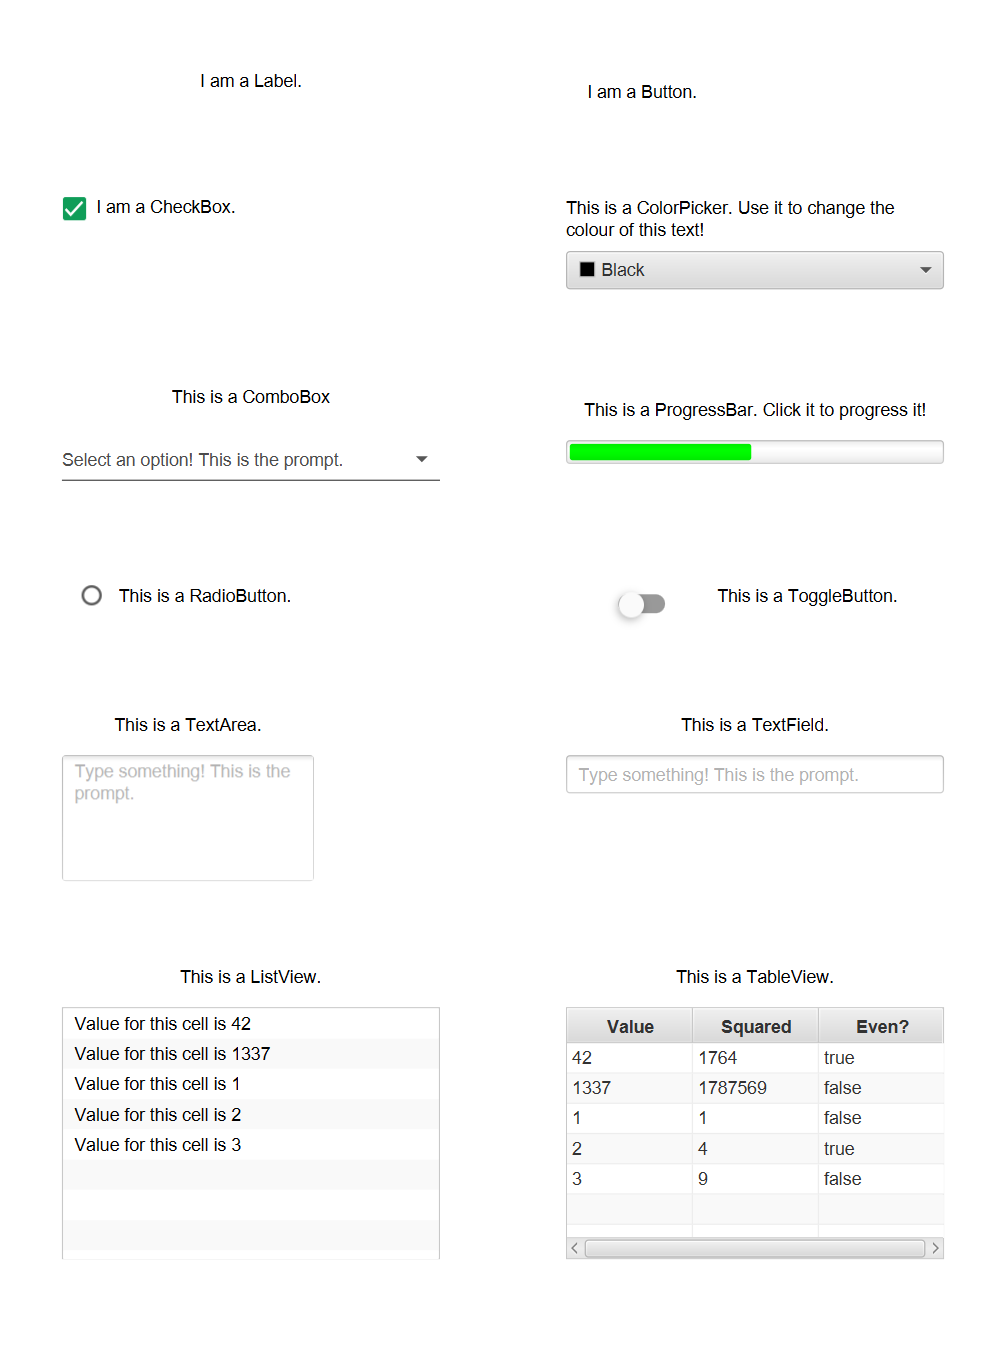
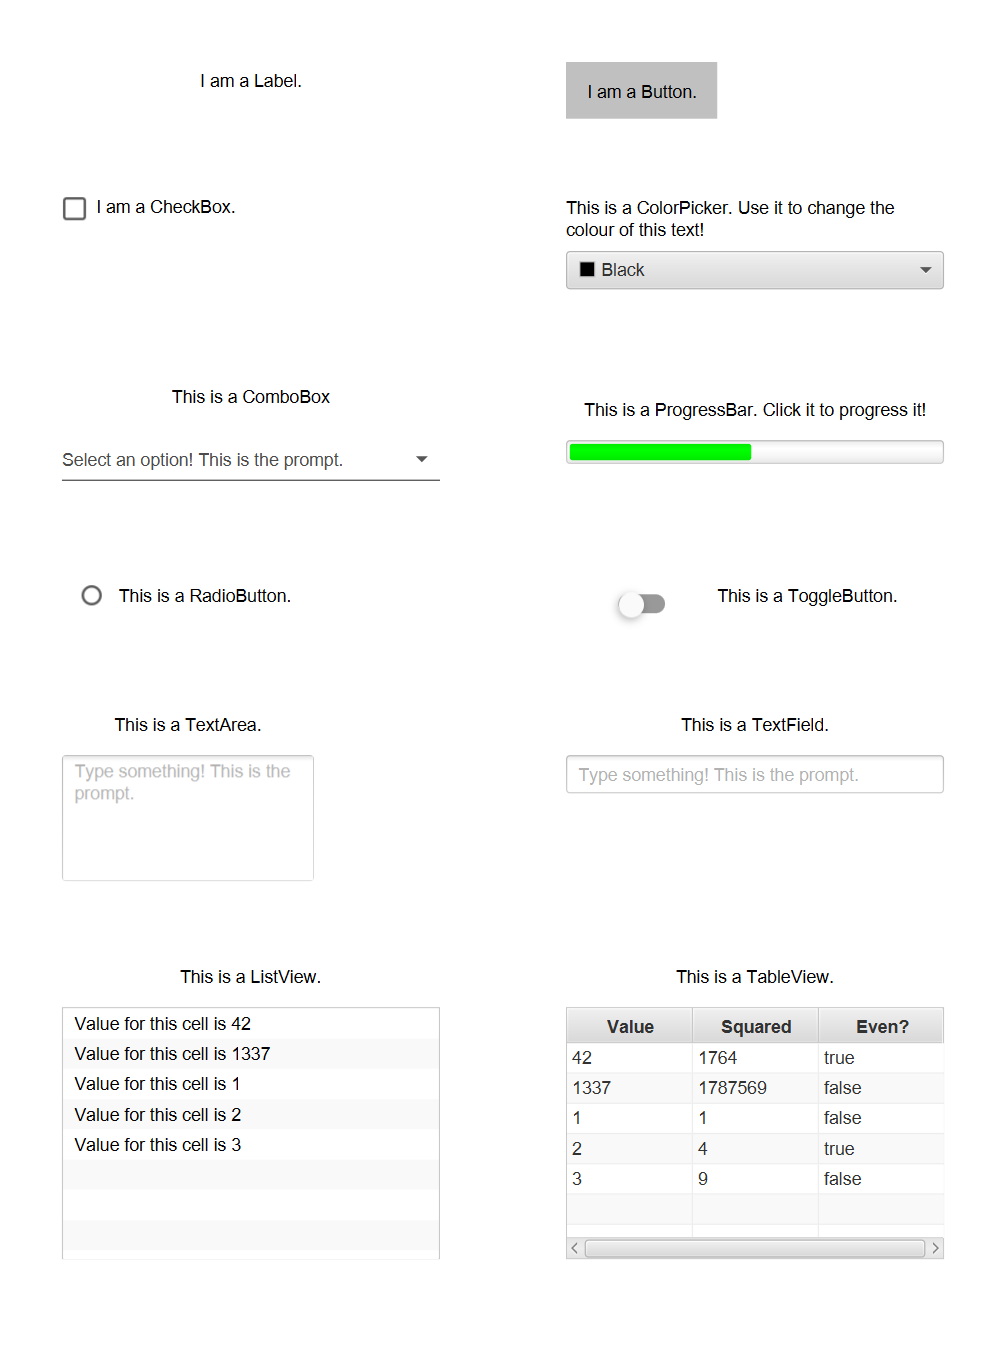
Update visualguide.png to make the button more visual.

diff --git a/bgw-docs-examples/src/main/kotlin/examples/components/uicomponents/UIComponentExample.kt b/bgw-docs-examples/src/main/kotlin/examples/components/uicomponents/UIComponentExample.kt
@@ -31,7 +31,7 @@ class UIComponentExample : BoardGameApplication("UIComponent Example") {
 		menuScene.addComponents(outputLabel)
 
 		//Button
-		val button = Button(posX = 450, posY = 50, text = "I am a Button.")
+		val button = Button(posX = 450, posY = 50, text = "I am a Button.", visual = ColorVisual.LIGHT_GRAY)
 
 		button.onMouseClicked = {
 			outputLabel.text = "Someone pressed the Button!"

diff --git a/docs/components/uicomponents/uicomponents.md b/docs/components/uicomponents/uicomponents.md
@@ -23,7 +23,7 @@ for UIComponents.
   with a text.
 - [TextInputUIComponents][TIUIComp]: extends UIComponent and provides a text where the user may write to.
 
-**NOTE:** UIComponentViews are ComponentViews. This means all methods of handling user input discussed in the
+**NOTE:** UIComponents are ComponentViews. This means all methods of handling user input discussed in the
 [User Input Guide][UserInput] are available to UIComponentViews.
 
 This is a visual example of all the available UIComponents in the framework. Parts of the source code will be used in
@@ -60,7 +60,7 @@ Additionally, a text may be defined to describe the button. In this example a ne
 onMouseClicked`` is set, so that the ``outputLabel`` displays "Someone pressed the Button!".
 
 ````kotlin
-val button = Button(posX = 450, posY = 50, text = "I am a Button.")
+val button = Button(posX = 450, posY = 50, text = "I am a Button.", visual = ColorVisual.LIGHT_GRAY)
 
 button.onMouseClicked = {
 	outputLabel.text = "Someone pressed the Button!"
